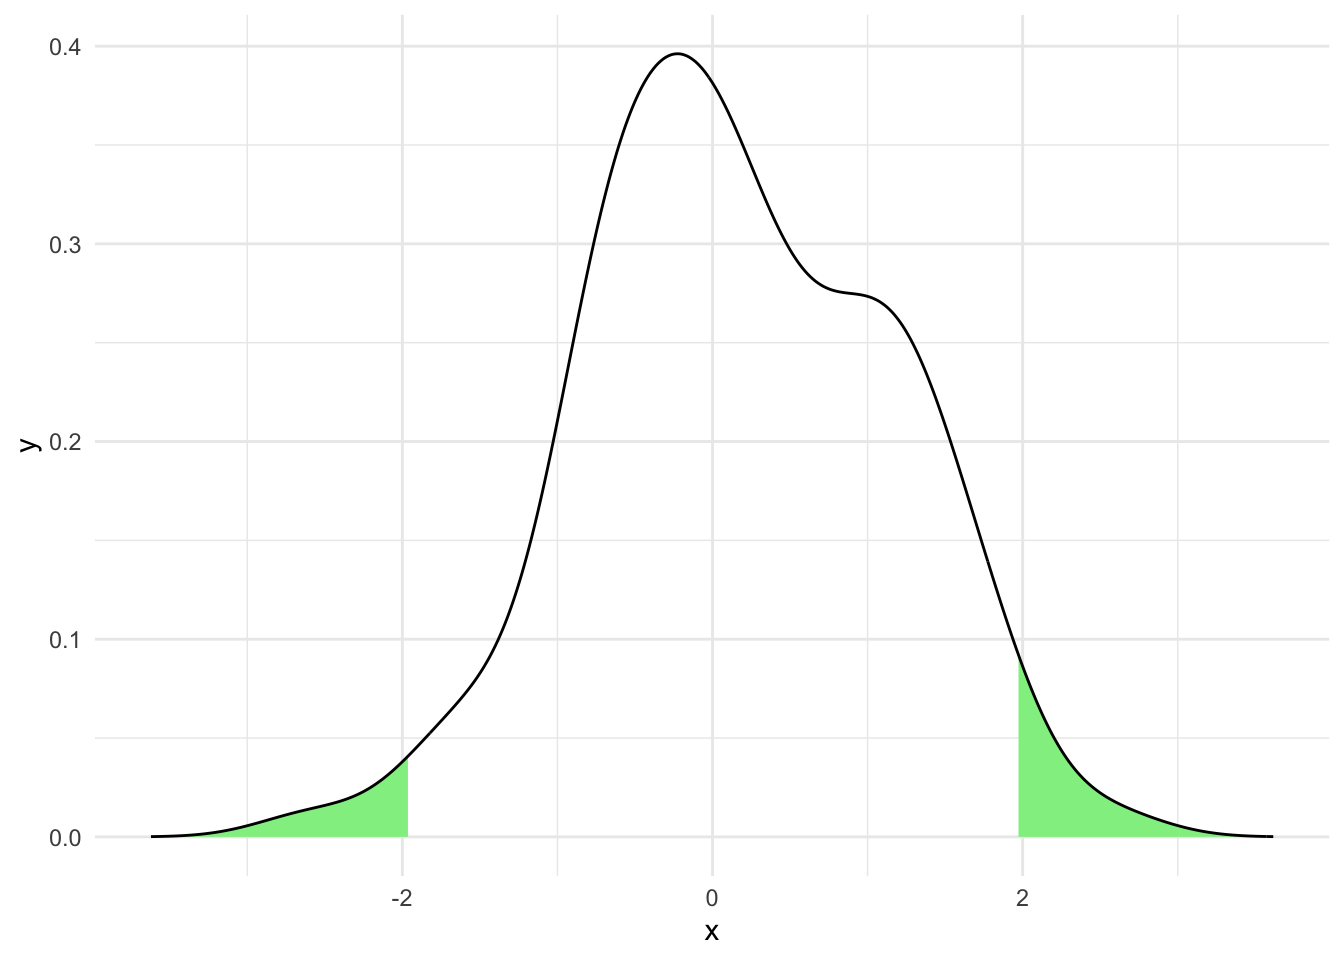
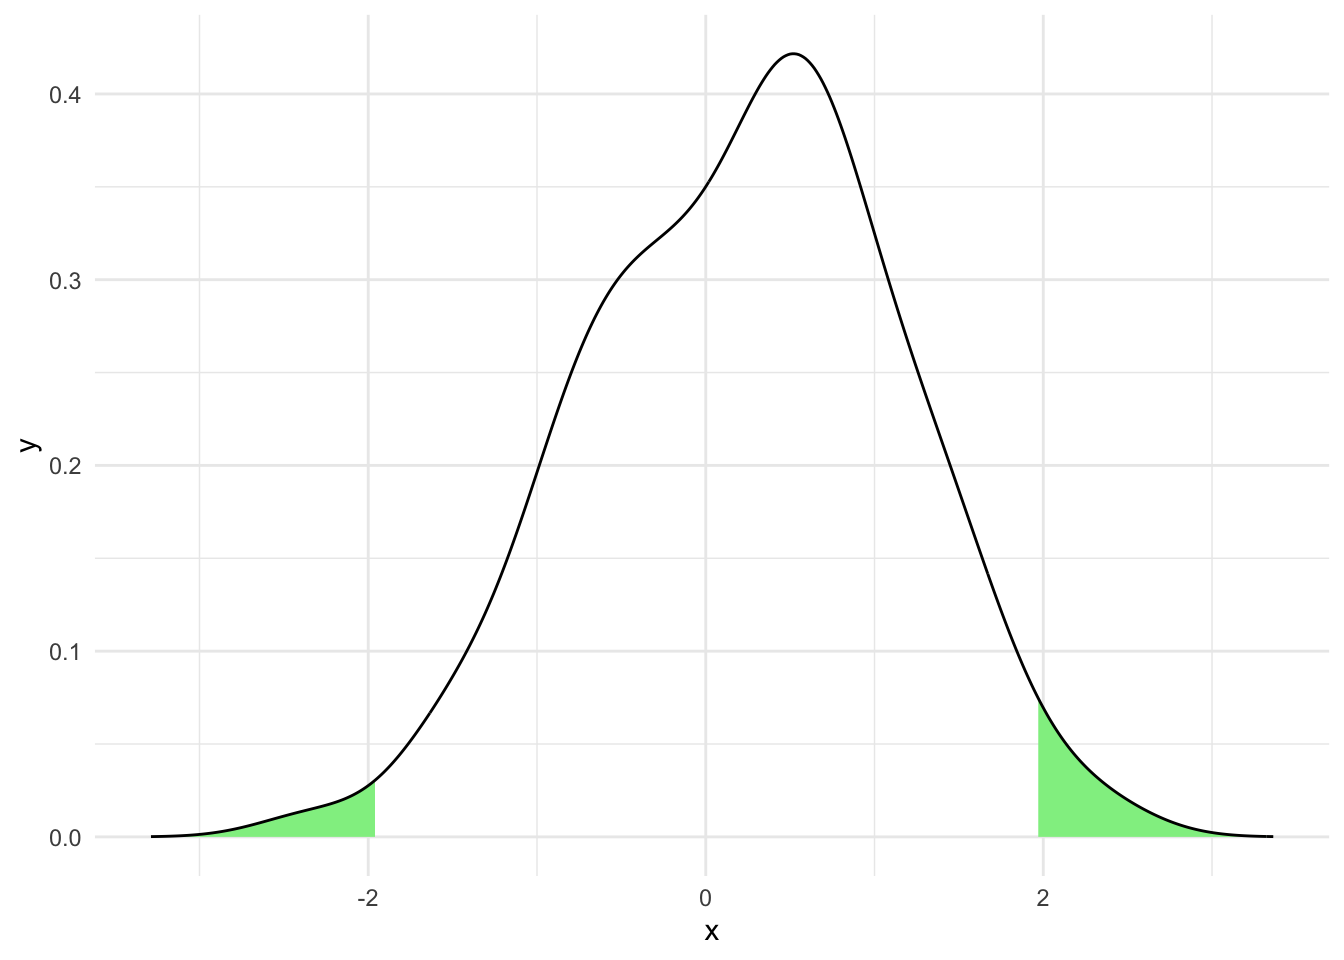
update date

diff --git a/docs/r-fundamentals.html b/docs/r-fundamentals.html
@@ -350,26 +350,26 @@ pre > code.sourceCode > span > a:first-child::before { text-decoration: underlin
 <div class="cell">
 <div class="sourceCode cell-code" id="cb17"><pre class="sourceCode r code-with-copy"><code class="sourceCode r"><span id="cb17-1"><a href="#cb17-1" aria-hidden="true" tabindex="-1"></a><span class="fu">rnorm</span>(<span class="dv">100</span>)</span></code><button title="Copy to Clipboard" class="code-copy-button"><i class="bi"></i></button></pre></div>
 <div class="cell-output cell-output-stdout">
-<pre><code>  [1]  1.1766325625  0.5517932779  1.7731012434 -1.1308700947  2.2949119282
-  [6]  0.3456568705 -0.3208188011  0.6681975239 -1.4597207074 -0.1550681728
- [11] -0.0072615965 -1.4957553714  1.2057330051 -0.3818790348  0.6803672340
- [16]  0.5584139798  0.2827538896  0.6771120539  1.1580688901  0.4188087521
- [21]  0.2516976678 -0.6904209602  1.4563498761  2.3440264553 -0.3879398195
- [26]  0.4695193916  0.6753197758 -2.2204168718 -0.5124396508 -0.4094063562
- [31] -1.9783204362 -0.2527753406  0.6218557207 -0.5960812899 -0.5778010960
- [36] -1.4899015376  0.8682442494 -0.8469125963  2.0932303699 -0.3660030124
- [41] -1.4662381029 -1.3871563325  1.1203033876 -0.5837428181  0.2852788303
- [46]  1.5411710303 -1.7330035137  0.7707856294 -0.2500706859  0.3028108080
- [51] -1.1348032896  0.5493275814  0.4936279659 -0.6139978664 -1.0667436252
- [56]  0.5764863768  0.3034880394  0.9976146384 -0.0759038855  1.3204184956
- [61]  2.4119851603 -0.1768227719  2.2988489471  0.9045197549 -0.0642678087
- [66] -0.3966700325  0.0195642180 -1.4934837793  0.6376116953 -0.7413994762
- [71] -0.1236414518  1.4872556200 -0.8606215102 -0.4585202243  0.3650028070
- [76]  0.3828160747 -0.8721542323  1.2547794372  1.7005334251  0.3873578140
- [81] -1.3891176934  0.7557994052  0.7137892303 -0.0009265745  0.4358552924
- [86] -0.3992468000  0.5477974549 -2.2366370098 -0.4650223000 -0.3754568239
- [91] -0.6240261286 -1.7337947850  1.7244629321  0.6291179564  1.1966346947
- [96] -0.6842700817  0.2377435790  0.0190977094 -0.8748062736 -0.5476722781</code></pre>
+<pre><code>  [1]  0.162022652  1.554434188  0.554782639  0.767359764  0.097849076
+  [6]  0.009517369  0.894604160  0.850222482 -1.417447079 -0.072890895
+ [11]  1.334700040 -0.862183420  0.376701320 -0.051865489 -0.289518152
+ [16] -0.329659508  0.262599173 -0.853322498 -2.658300230 -1.462707383
+ [21] -1.218852494  0.268791822  0.490793944 -0.124057290  0.827655551
+ [26] -2.890632265 -0.718772680  0.287978535  1.139616093 -0.189511382
+ [31]  1.055276760  0.354171470 -0.523610980  1.269644176  1.759346331
+ [36] -1.057854461  0.544058642 -0.717577298 -0.066405989 -0.075143369
+ [41] -0.722804205 -1.050683803 -0.750536573 -0.238961012  0.120164999
+ [46] -1.890571470  1.945663540  0.530811867  0.629186093 -0.562764393
+ [51]  2.551181002 -0.836721928 -0.399574244 -0.732450149  1.565920676
+ [56] -0.238483668 -1.050651838  2.073348126  0.754044302  0.524519940
+ [61] -0.334345204 -0.169305085 -1.285443352  1.261763585 -0.062841037
+ [66] -1.227889767  0.360787710 -0.302027045 -0.399872525  0.953355629
+ [71]  0.077830514 -0.783213626 -0.206234565 -0.100146239  0.143207652
+ [76] -3.986954501 -2.160595110 -0.133520085  0.031416199 -0.913947935
+ [81]  0.963118607  0.071997340  0.783663543 -2.497897486 -0.084123706
+ [86]  0.478031750  1.035842744  0.848844706  0.159084643  0.937108897
+ [91] -1.254475396 -0.194908943 -1.081342504  0.728292697  1.145146975
+ [96] -1.105776976 -1.054666198  0.149584150  0.411857505  0.283604467</code></pre>
 </div>
 </div>
 <p>We can combine objects, variables and functions to do more complex stuff in R, here’s how we get the mean of 100 random numbers.</p>
@@ -377,7 +377,7 @@ pre > code.sourceCode > span > a:first-child::before { text-decoration: underlin
 <div class="sourceCode cell-code" id="cb19"><pre class="sourceCode r code-with-copy"><code class="sourceCode r"><span id="cb19-1"><a href="#cb19-1" aria-hidden="true" tabindex="-1"></a>numbers <span class="ot">&lt;-</span> <span class="fu">rnorm</span>(<span class="dv">100</span>)</span>
 <span id="cb19-2"><a href="#cb19-2" aria-hidden="true" tabindex="-1"></a><span class="fu">mean</span>(numbers)</span></code><button title="Copy to Clipboard" class="code-copy-button"><i class="bi"></i></button></pre></div>
 <div class="cell-output cell-output-stdout">
-<pre><code>[1] 0.1326446</code></pre>
+<pre><code>[1] 0.1608304</code></pre>
 </div>
 </div>
 <p>Here we created a vector object with <code>rnorm(100)</code> and assigned it to the variable <code>numbers</code>. We than used the <code>mean()</code> function, passing it the variable <code>numbers</code>. The <code>mean()</code> function returned the mean of the hundred random numbers.</p>
@@ -389,9 +389,9 @@ pre > code.sourceCode > span > a:first-child::before { text-decoration: underlin
 <div class="cell">
 <div class="cell-output cell-output-stdout">
 <pre><code>  names age    score
-1 Guido  24 40.95538
-2 Marty  45 48.45974
-3  Alan  11 79.74845</code></pre>
+1 Guido  24 64.80699
+2 Marty  45 92.10864
+3  Alan  11 10.69300</code></pre>
 </div>
 </div>
 <p>Usually we get a dataframe by loading in data from an external source or as a result from functions, occasionally we’ll want to hand make one, which can be done with various functions, <code>data.frame</code> being the most common.</p>

diff --git a/docs/index.html b/docs/index.html
@@ -7,7 +7,7 @@
 <meta name="viewport" content="width=device-width, initial-scale=1.0, user-scalable=yes">
 
 <meta name="author" content="Dan MacLean">
-<meta name="dcterms.date" content="2022-05-01">
+<meta name="dcterms.date" content="2025-11-01">
 
 <title>Estimation Statistics</title>
 <style>
@@ -275,7 +275,7 @@ window.Quarto = {
     <div>
     <div class="quarto-title-meta-heading">Published</div>
     <div class="quarto-title-meta-contents">
-      <p class="date">May 1, 2022</p>
+      <p class="date">November 1, 2025</p>
     </div>
   </div>
   

diff --git a/docs/03-using-estimations.html b/docs/03-using-estimations.html
@@ -463,7 +463,7 @@ Notch went outside hinges
 ==================
 
 Good afternoon!
-The current time is 14:10 p.m. on Monday November 03, 2025.
+The current time is 14:41 p.m. on Monday November 03, 2025.
 
 ffect size(s) with 95% confidence intervals will be computed for:
 1. group2 minus group1
